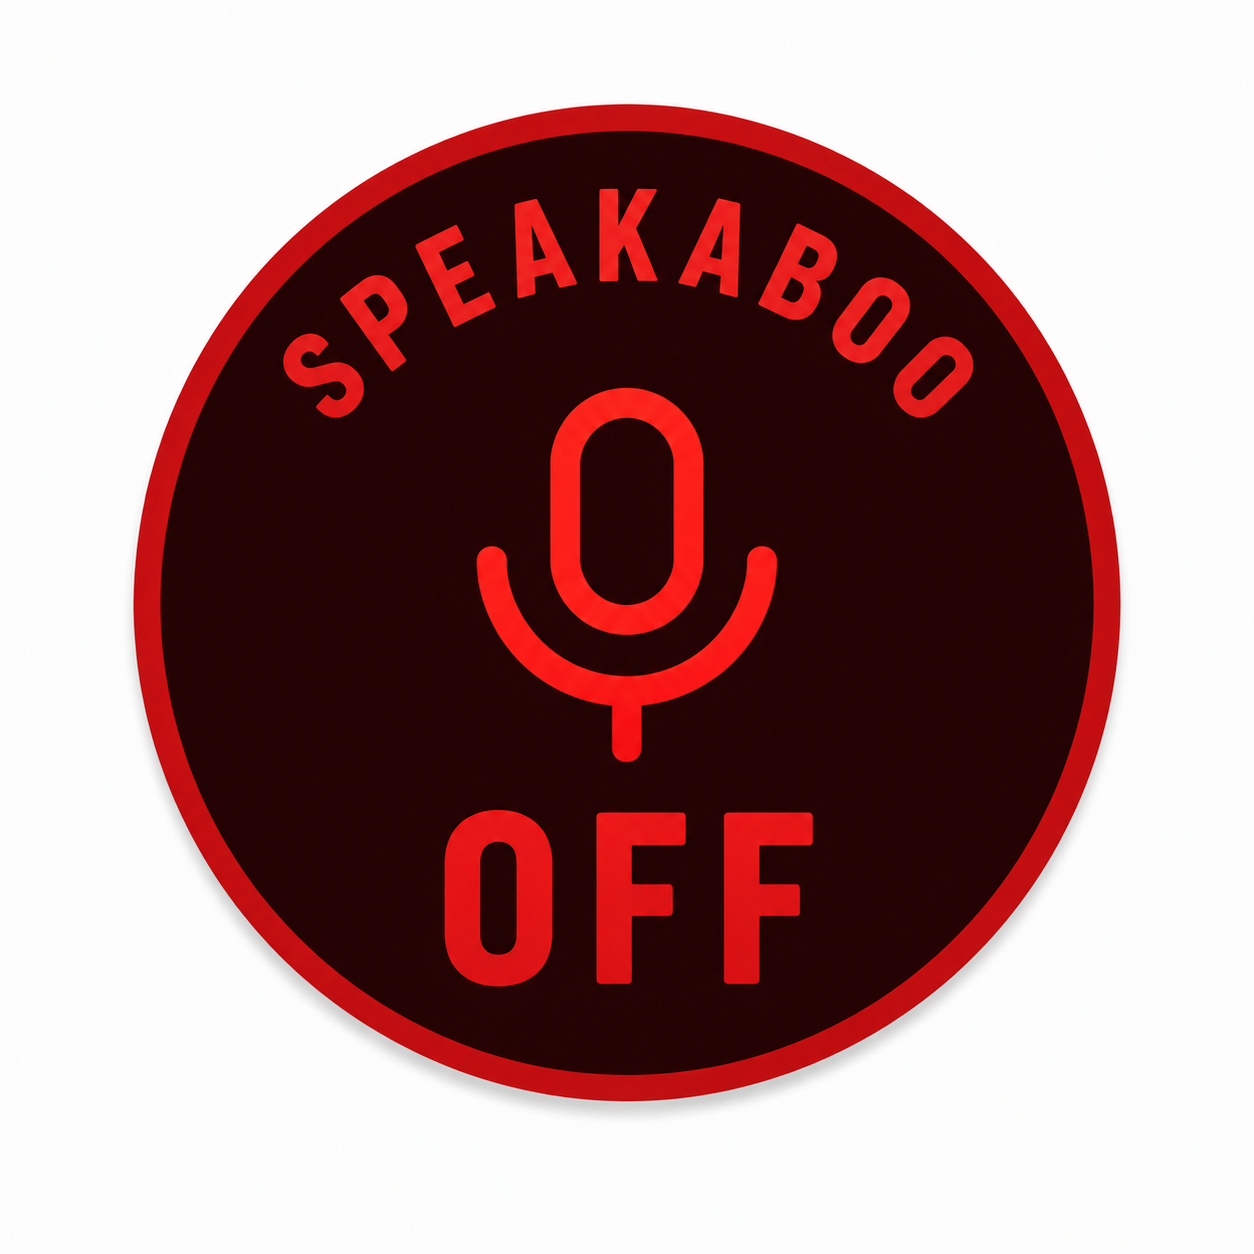
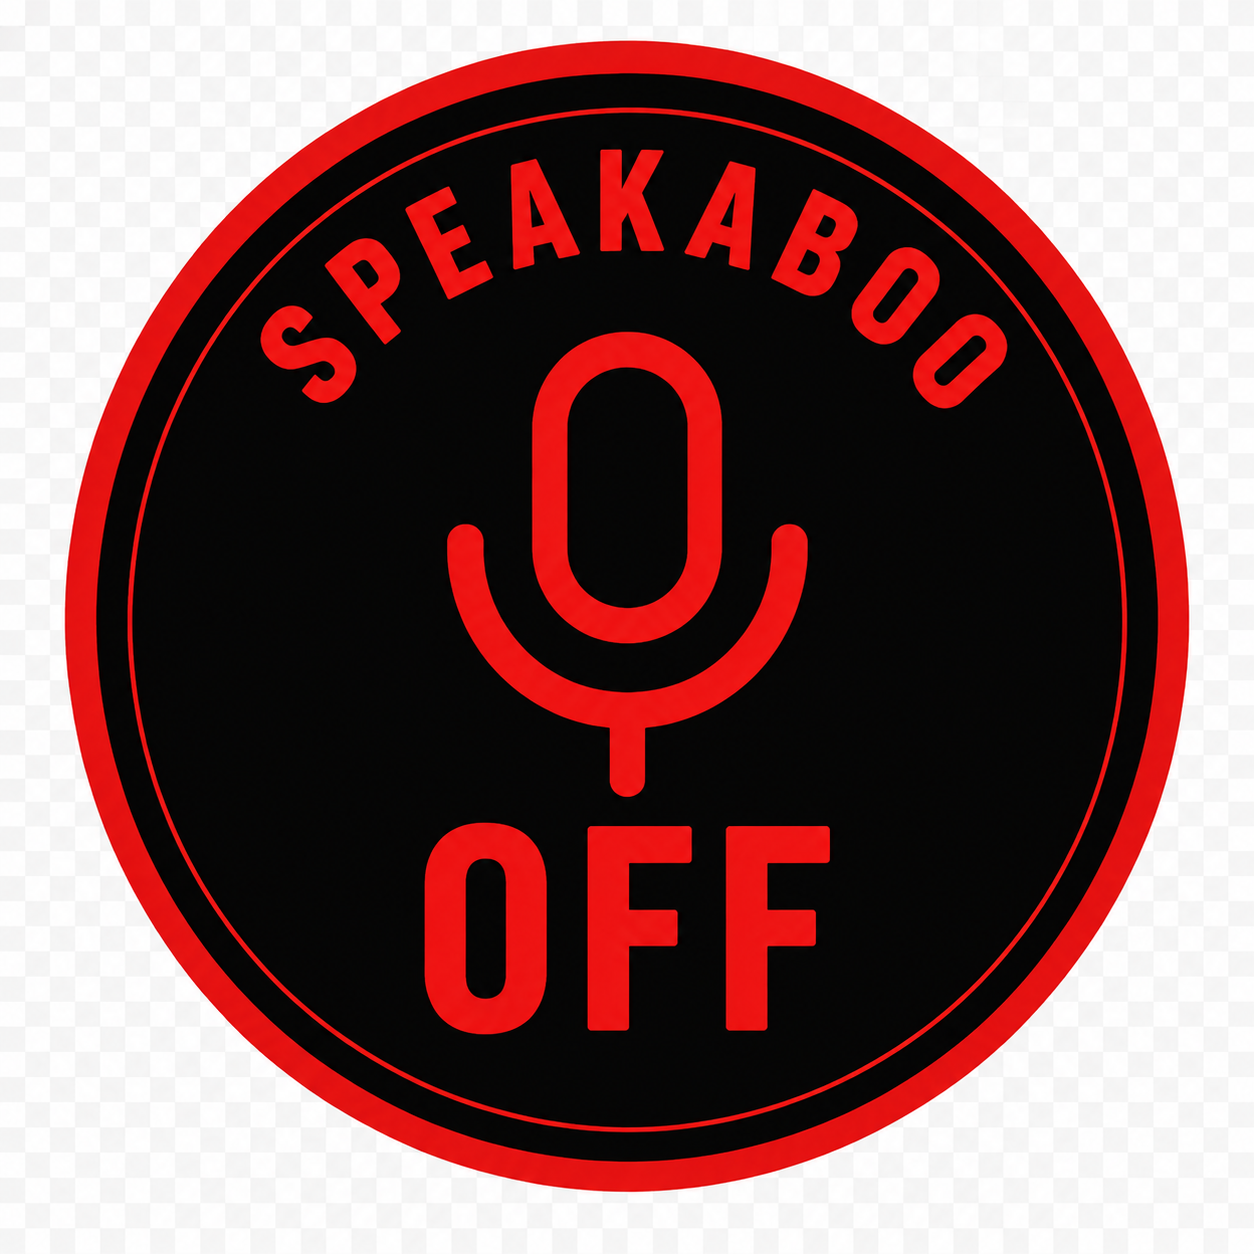
BEB: replace SpeakaBoo button images with transparent-background versions

diff --git a/beb.html b/beb.html
@@ -49,7 +49,7 @@ body{background:var(--dark);min-height:100vh;font-family:'Barlow',sans-serif;col
 .mic-status.show{display:block;}
 .mic-row{display:flex;gap:10px;align-items:center;}
 
-.mic-btn{width:96px;height:96px;border-radius:50%;border:none;outline:none;background:#2a3040;cursor:pointer;display:flex;align-items:center;justify-content:center;flex-shrink:0;transition:all 0.2s;position:relative;padding:0;overflow:hidden;}
+.mic-btn{width:96px;height:96px;border-radius:50%;border:none;outline:none;background:transparent;cursor:pointer;display:flex;align-items:center;justify-content:center;flex-shrink:0;transition:all 0.2s;position:relative;padding:0;overflow:hidden;}
 .mic-btn.listening{box-shadow:0 0 0 10px rgba(0,196,74,0.2);}
 .mic-btn.listening::after{content:'';position:absolute;width:100%;height:100%;border-radius:50%;border:3px solid #00c44a;animation:pulse 1.2s ease-out infinite;pointer-events:none;}
 .mic-btn.speaking,.mic-btn.thinking{box-shadow:0 0 0 10px rgba(255,204,0,0.2);}
